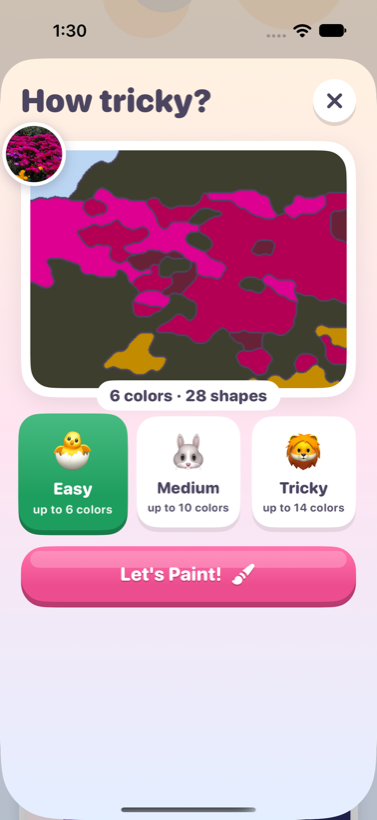
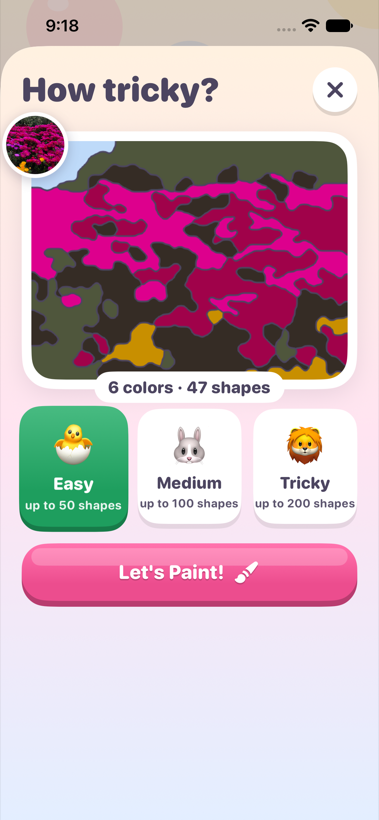
Difficulty levels by number of shapes: at most 50, 100 and 200
Easy (about 5 years old) allows at most 50 shapes, Medium 100 and Tricky
(about 8 years old) 200. Busy photos are simplified down to the limit by
folding the smallest shapes into their neighbors, so the biggest and
most recognizable shapes survive; simple photos keep fewer shapes. The
levels also get a little more detail to use their budget. Difficulty
cards, README, unit tests (limit at every level, simple photos stay
below it, capped merging) and UI tests are updated.

diff --git a/Packages/ColorDrawKit/Tests/ColorDrawKitTests/PuzzleGeneratorTests.swift b/Packages/ColorDrawKit/Tests/ColorDrawKitTests/PuzzleGeneratorTests.swift
@@ -30,11 +30,34 @@ func makeNoisyPhoto(width: Int = 200, height: Int = 150, seed: UInt64 = 7) -> RG
     return RGBAImage(width: width, height: height, pixels: pixels)
 }
 
+/// A very busy "photo": a mosaic of small tiles in many strong colors, far more shapes than any
+/// level allows.
+func makeBusyPhoto(width: Int = 560, height: Int = 420, tile: Int = 20, seed: UInt64 = 3) -> RGBAImage {
+    var rng = SplitMix64(seed: seed)
+    let colors: [RGBColor] = (0..<16).map { _ in
+        RGBColor(r: .random(in: 0...255, using: &rng), g: .random(in: 0...255, using: &rng), b: .random(in: 0...255, using: &rng))
+    }
+    let columns = (width + tile - 1) / tile, rows = (height + tile - 1) / tile
+    let tiles = (0..<(columns * rows)).map { _ in colors.randomElement(using: &rng)! }
+    var pixels = [UInt8](repeating: 255, count: width * height * 4)
+    for y in 0..<height {
+        for x in 0..<width {
+            let color = tiles[(y / tile) * columns + x / tile]
+            let i = (y * width + x) * 4
+            pixels[i] = color.r
+            pixels[i + 1] = color.g
+            pixels[i + 2] = color.b
+        }
+    }
+    return RGBAImage(width: width, height: height, pixels: pixels)
+}
+
 /// Checks the invariants every puzzle must satisfy for the app to work.
 func expectValid(_ puzzle: Puzzle, settings: PuzzleSettings? = nil) {
     #expect(puzzle.regionMap.count == puzzle.width * puzzle.height)
     #expect(!puzzle.regions.isEmpty)
     #expect(puzzle.palette.count <= (settings?.colorCount ?? 255))
+    #expect(puzzle.regions.count <= (settings?.maximumRegionCount ?? .max))
     #expect(puzzle.regions.reduce(0) { $0 + $1.area } == puzzle.width * puzzle.height)
 
     var areas = [Int](repeating: 0, count: puzzle.regions.count)
@@ -79,6 +102,30 @@ struct PuzzleGeneratorTests {
         let puzzle = PuzzleGenerator.generate(from: makeNoisyPhoto(), settings: settings)
         expectValid(puzzle, settings: settings)
         #expect(puzzle.palette.count >= 2, "\(level) should keep several colors")
+    }
+
+    @Test(arguments: [("easy", PuzzleSettings.easy, 50), ("medium", .medium, 100), ("hard", .hard, 200)])
+    func busyPhotosAreSimplifiedToTheLevelsShapeLimit(level: String, settings: PuzzleSettings, limit: Int) throws {
+        #expect(settings.maximumRegionCount == limit)
+        let photo = try #require(makeBusyPhoto().makeCGImage())
+        let puzzle = try PuzzleGenerator.generate(from: photo, settings: settings)
+        expectValid(puzzle, settings: settings)
+        #expect(puzzle.regions.count <= limit, "\(level) allows at most \(limit) shapes")
+        // A busy photo uses most of the level's budget rather than collapsing into a few blobs.
+        #expect(puzzle.regions.count >= limit / 2, "\(level) made only \(puzzle.regions.count) shapes")
+    }
+
+    @Test func simplePhotosStayBelowTheLimit() throws {
+        // Two flat halves: two shapes at every level, nowhere near the limit.
+        let image = try #require(RGBAImage.render(width: 300, height: 200, antialias: false) { context in
+            context.setFillColor(CGColor(srgbRed: 0.2, green: 0.6, blue: 1, alpha: 1))
+            context.fill(CGRect(x: 0, y: 0, width: 300, height: 120))
+            context.setFillColor(CGColor(srgbRed: 0.3, green: 0.8, blue: 0.3, alpha: 1))
+            context.fill(CGRect(x: 0, y: 120, width: 300, height: 80))
+        }?.makeCGImage())
+        for settings in [PuzzleSettings.easy, .medium, .hard] {
+            #expect(try PuzzleGenerator.generate(from: image, settings: settings).regions.count == 2)
+        }
     }
 
     @Test func harderLevelsHaveMoreRegions() throws {

diff --git a/Packages/ColorDrawKit/Sources/ColorDrawKit/PuzzleGenerator.swift b/Packages/ColorDrawKit/Sources/ColorDrawKit/PuzzleGenerator.swift
@@ -5,6 +5,9 @@ import Foundation
 public struct PuzzleSettings: Hashable, Sendable {
     /// Upper bound on the number of paint colors.
     public var colorCount: Int
+    /// Upper bound on the number of shapes to paint. Busy photos are simplified down to this
+    /// many (the smallest shapes merge into their neighbors); simple ones may have fewer.
+    public var maximumRegionCount: Int
     /// The photo is shrunk so its longest side is at most this many working pixels. Fewer pixels
     /// means bigger, simpler shapes.
     public var maxDimension: Int
@@ -21,8 +24,18 @@ public struct PuzzleSettings: Hashable, Sendable {
     /// become thin strips with slivers for shapes.
     public var maximumAspectRatio: Double
 
-    public init(colorCount: Int, maxDimension: Int, minimumRegionArea: Int, minimumRegionRadius: Float, smoothingPasses: Int, minimumColorDistance: Float, maximumAspectRatio: Double = 2) {
+    public init(
+        colorCount: Int,
+        maximumRegionCount: Int,
+        maxDimension: Int,
+        minimumRegionArea: Int,
+        minimumRegionRadius: Float,
+        smoothingPasses: Int,
+        minimumColorDistance: Float,
+        maximumAspectRatio: Double = 2
+    ) {
         self.colorCount = colorCount
+        self.maximumRegionCount = maximumRegionCount
         self.maxDimension = maxDimension
         self.minimumRegionArea = minimumRegionArea
         self.minimumRegionRadius = minimumRegionRadius
@@ -31,9 +44,11 @@ public struct PuzzleSettings: Hashable, Sendable {
         self.maximumAspectRatio = maximumAspectRatio
     }
 
-    public static let easy = PuzzleSettings(colorCount: 6, maxDimension: 120, minimumRegionArea: 36, minimumRegionRadius: 2.5, smoothingPasses: 3, minimumColorDistance: 18)
-    public static let medium = PuzzleSettings(colorCount: 10, maxDimension: 170, minimumRegionArea: 30, minimumRegionRadius: 2.2, smoothingPasses: 3, minimumColorDistance: 14)
-    public static let hard = PuzzleSettings(colorCount: 14, maxDimension: 240, minimumRegionArea: 30, minimumRegionRadius: 2.0, smoothingPasses: 2, minimumColorDistance: 11)
+    /// For about five-year-olds: at most 50 big shapes in a few clearly different colors.
+    public static let easy = PuzzleSettings(colorCount: 6, maximumRegionCount: 50, maxDimension: 150, minimumRegionArea: 34, minimumRegionRadius: 2.5, smoothingPasses: 3, minimumColorDistance: 18)
+    public static let medium = PuzzleSettings(colorCount: 10, maximumRegionCount: 100, maxDimension: 200, minimumRegionArea: 28, minimumRegionRadius: 2.2, smoothingPasses: 3, minimumColorDistance: 14)
+    /// For about eight-year-olds: up to 200 shapes and more colors.
+    public static let hard = PuzzleSettings(colorCount: 14, maximumRegionCount: 200, maxDimension: 260, minimumRegionArea: 24, minimumRegionRadius: 2.0, smoothingPasses: 2, minimumColorDistance: 11)
 }
 
 public enum PuzzleGeneratorError: Error, Equatable {
@@ -90,7 +105,8 @@ public enum PuzzleGenerator {
             width: width,
             height: height,
             minimumArea: settings.minimumRegionArea,
-            minimumRadius: settings.minimumRegionRadius
+            minimumRadius: settings.minimumRegionRadius,
+            maximumCount: settings.maximumRegionCount
         )
         return assemble(indices: cleaned, palette: quantized.palette, width: width, height: height)
     }

diff --git a/Packages/ColorDrawKit/Sources/ColorDrawKit/Segmentation.swift b/Packages/ColorDrawKit/Sources/ColorDrawKit/Segmentation.swift
@@ -194,7 +194,9 @@ enum Segmentation {
         return best
     }
 
-    /// Repeatedly folds regions that are too small or too thin to paint into their best neighbor.
+    /// Repeatedly folds regions that are too small or too thin to paint into their best neighbor,
+    /// and, while there are more than `maximumCount` regions, the smallest remaining ones too (so
+    /// the biggest, most recognizable shapes are the ones that survive).
     /// Returns the cleaned color index map.
     static func mergeTinyRegions(
         _ indices: [UInt8],
@@ -203,7 +205,8 @@ enum Segmentation {
         height: Int,
         minimumArea: Int,
         minimumRadius: Float,
-        maximumPasses: Int = 12
+        maximumCount: Int = .max,
+        maximumPasses: Int = 20
     ) -> [UInt8] {
         var indices = indices
         for _ in 0..<maximumPasses {
@@ -214,8 +217,14 @@ enum Segmentation {
                 deepest[Int(id)] = max(deepest[Int(id)], distances[p])
             }
             let minimumDepthSquared = max(0, minimumRadius - 0.5) * max(0, minimumRadius - 0.5)
-            let isTiny = (0..<components.count).map { id in
+            var isTiny = (0..<components.count).map { id in
                 components.areas[id] < minimumArea || deepest[id] < minimumDepthSquared
+            }
+            // Still too many shapes for this level: fold the smallest of the rest as well.
+            let excess = (components.count - isTiny.lazy.filter { $0 }.count) - max(1, maximumCount)
+            if excess > 0 {
+                let smallest = (0..<components.count).filter { !isTiny[$0] }.sorted { components.areas[$0] < components.areas[$1] }
+                for id in smallest.prefix(excess) { isTiny[id] = true }
             }
             guard isTiny.contains(true), components.count > 1 else { break }
 

diff --git a/ColorDraw/Create/CreatePuzzleView.swift b/ColorDraw/Create/CreatePuzzleView.swift
@@ -1,7 +1,8 @@
 import ColorDrawKit
 import SwiftUI
 
-/// How hard a photo puzzle is: how many colors and how much detail.
+/// How hard a photo puzzle is: at most how many shapes (50 for about five-year-olds up to 200 for
+/// about eight-year-olds) and how many colors. Simple photos can have fewer shapes.
 enum Difficulty: String, CaseIterable, Identifiable {
     case easy, medium, hard
 
@@ -240,8 +241,10 @@ private struct DifficultyCard: View {
                     .font(.system(size: 40))
                 Text(difficulty.title)
                     .font(Theme.font(.headline))
-                Text("up to \(difficulty.settings.colorCount) colors")
+                Text("up to \(difficulty.settings.maximumRegionCount) shapes")
                     .font(Theme.font(.caption, weight: .bold))
+                    .lineLimit(1)
+                    .minimumScaleFactor(0.75)
                     .opacity(0.9)
             }
             .foregroundStyle(isSelected ? .white : Theme.ink)
@@ -260,7 +263,7 @@ private struct DifficultyCard: View {
             .animation(.spring(response: 0.3, dampingFraction: 0.6), value: isSelected)
         }
         .buttonStyle(.plain)
-        .accessibilityLabel("\(difficulty.title), up to \(difficulty.settings.colorCount) colors")
+        .accessibilityLabel("\(difficulty.title), up to \(difficulty.settings.maximumRegionCount) shapes")
         .accessibilityAddTraits(isSelected ? .isSelected : [])
     }
 }

diff --git a/Packages/ColorDrawKit/Tests/ColorDrawKitTests/SegmentationTests.swift b/Packages/ColorDrawKit/Tests/ColorDrawKitTests/SegmentationTests.swift
@@ -54,6 +54,21 @@ struct SegmentationTests {
         #expect(cleaned.allSatisfy { $0 == 0 }, "The speck and the thin line are both too small to paint")
     }
 
+    @Test func shapeLimitKeepsTheBiggestShapes() {
+        // A 20×20 checkerboard of 4×4 blocks (25 shapes), plus one big block of a third color.
+        var indices = [UInt8](repeating: 0, count: 400)
+        for y in 0..<20 { for x in 0..<20 { indices[y * 20 + x] = UInt8(((x / 4) + (y / 4)) % 2) } }
+        for y in 0..<12 { for x in 0..<12 { indices[y * 20 + x] = 2 } }
+        let palette = [LabColor(l: 30, a: 0, b: 0), LabColor(l: 70, a: 0, b: 0), LabColor(l: 50, a: 50, b: 0)]
+        let before = Segmentation.connectedComponents(indices, width: 20, height: 20).count
+        let cleaned = Segmentation.mergeTinyRegions(indices, palette: palette, width: 20, height: 20, minimumArea: 1, minimumRadius: 0, maximumCount: 5)
+        let after = Segmentation.connectedComponents(cleaned, width: 20, height: 20)
+        #expect(before > 5)
+        #expect(after.count <= 5)
+        // The big block is still there.
+        #expect(cleaned[5 * 20 + 5] == 2)
+    }
+
     @Test func bigRegionsSurviveMerging() {
         var indices = [UInt8](repeating: 0, count: 400)
         for y in 0..<20 { for x in 10..<20 { indices[y * 20 + x] = 1 } }

diff --git a/Packages/ColorDrawKit/Sources/ColorDrawKit/SamplePicture.swift b/Packages/ColorDrawKit/Sources/ColorDrawKit/SamplePicture.swift
@@ -19,7 +19,7 @@ public enum SamplePicture: String, CaseIterable, Identifiable, Sendable {
     }
 
     /// Settings that keep every little detail (eyes, stars, windows) of the drawings.
-    public static let settings = PuzzleSettings(colorCount: 24, maxDimension: 150, minimumRegionArea: 10, minimumRegionRadius: 1.5, smoothingPasses: 0, minimumColorDistance: 0)
+    public static let settings = PuzzleSettings(colorCount: 24, maximumRegionCount: 50, maxDimension: 150, minimumRegionArea: 10, minimumRegionRadius: 1.5, smoothingPasses: 0, minimumColorDistance: 0)
 
     /// Draws the picture without anti-aliasing so it has a handful of exact, flat colors.
     public func render(size: Int = 150) -> RGBAImage {

diff --git a/ColorDrawUITests/ColorDrawUITests.swift b/ColorDrawUITests/ColorDrawUITests.swift
@@ -110,11 +110,11 @@ final class ColorDrawUITests: XCTestCase {
         XCTAssertTrue(preview.waitForExistence(timeout: 15), "A preview should appear")
         snapshot("09-create-easy")
 
-        app.buttons["Tricky, up to 14 colors"].tap()
+        app.buttons["Tricky, up to 200 shapes"].tap()
         XCTAssertTrue(preview.waitForExistence(timeout: 15))
         sleep(1)
         snapshot("10-create-tricky")
-        app.buttons["Easy, up to 6 colors"].tap()
+        app.buttons["Easy, up to 50 shapes"].tap()
 
         paint.tap()
         XCTAssertTrue(app.otherElements["Coloring picture"].waitForExistence(timeout: 15))

diff --git a/README.md b/README.md
@@ -16,8 +16,16 @@ little fingers tap or drag over the shapes to fill them in.
 
 - **Use any picture**: take a photo with the camera, pick one from Photos, or start with one of
   six built-in drawings (kitty, rainbow, fish, house, flower, rocket).
-- **Choose how tricky**: 🐣 *Easy* (up to 6 colors, big shapes), 🐰 *Medium* (up to 10) or
-  🦁 *Tricky* (up to 14 colors, more detail), with a live preview of the finished picture.
+- **Choose how tricky**, with a live preview of the finished picture:
+
+  | Level | Shapes (at most) | Colors (at most) | Made for |
+  |---|---|---|---|
+  | 🐣 Easy | 50 | 6 | about 5 years old |
+  | 🐰 Medium | 100 | 10 | in between |
+  | 🦁 Tricky | 200 | 14 | about 8 years old |
+
+  The numbers are limits: a busy photo is simplified down to them, while a simple one ends up
+  with fewer shapes.
 - **Paint by number**: pick a paint pot from the palette. Every shape that takes that color is
   striped in a light tint of it, so kids can see where to paint. Tap a shape, or drag a finger
   across many shapes at once. Only the right color sticks, so a picture can't be spoiled. A wrong
@@ -46,7 +54,7 @@ Reduce Motion, and its sounds follow the silent switch.
 The engine lives in [`Packages/ColorDrawKit`](Packages/ColorDrawKit) and is plain Swift and Core
 Graphics, so it is unit-tested on the Mac.
 
-1. **Shrink** the photo to a small working size (120 to 240 pixels on the long side, depending on
+1. **Shrink** the photo to a small working size (150 to 260 pixels on the long side, depending on
    difficulty). Fewer pixels means simpler shapes.
 2. **Smooth** it with an edge-preserving bilateral filter in CIE L\*a\*b\* space, which flattens
    texture and noise but keeps outlines.
@@ -54,7 +62,9 @@ Graphics, so it is unit-tested on the Mac.
    then give the palette a gentle "storybook" boost (brighter and more colorful).
    Flat-color artwork, like the built-in drawings, keeps its exact colors.
 4. **Clean up** with a majority filter, then find connected regions and fold every region that
-   is too small or too thin to paint into its best neighbor.
+   is too small or too thin to paint into its best neighbor. If there are still more shapes than
+   the level allows (50, 100 or 200), the smallest ones are folded in too, so the biggest and
+   most recognizable shapes are the ones that stay.
 5. **Place the numbers** at the deepest point of each region, found with an exact Euclidean
    distance transform. The number's size comes from the largest circle that fits there.
 6. **Smooth the outlines** by scaling the region map up about 10×. Each high-res pixel votes with
